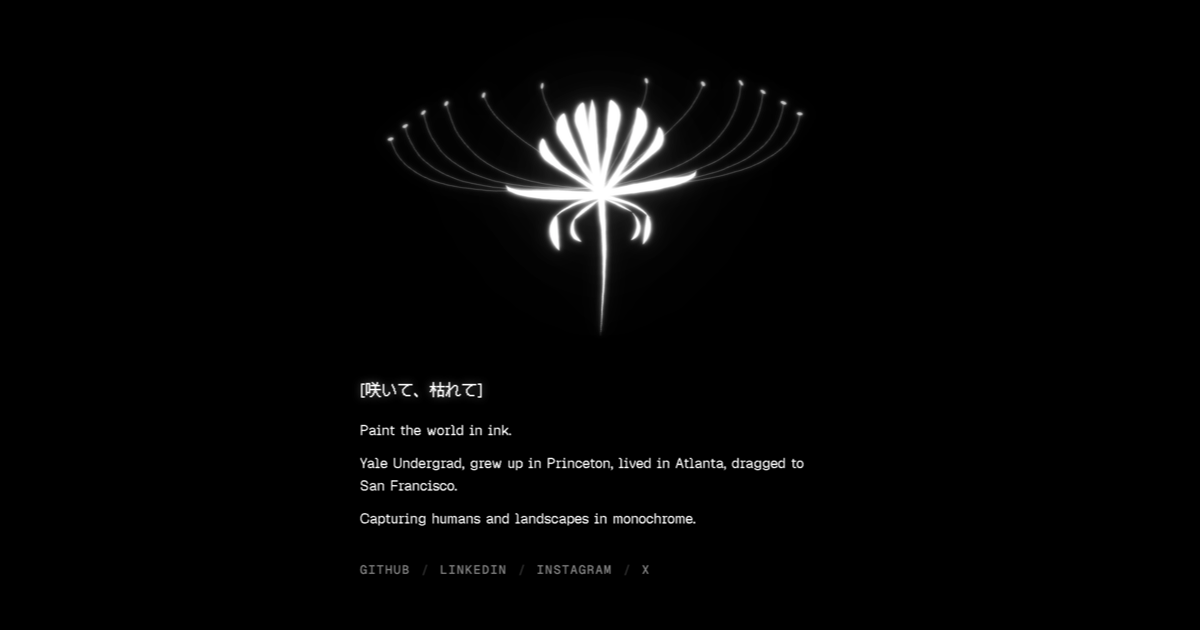
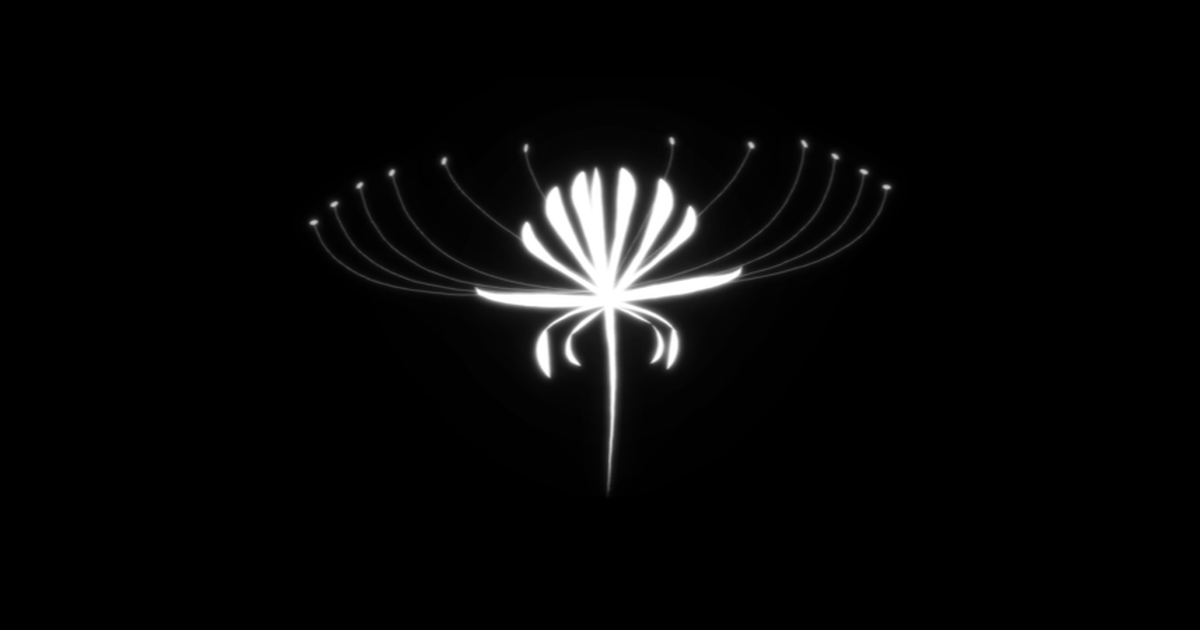
feat: simplify og image to flower on black background (#125)

diff --git a/index.html b/index.html
@@ -50,13 +50,13 @@
     <meta property="og:url" content="https://jasonwu.ink/" />
     <meta
       property="og:image"
-      content="https://jasonwu.ink/images/og-image.png"
+      content="https://jasonwu.ink/images/og-image.png?v=2"
     />
     <meta property="og:image:width" content="1200" />
     <meta property="og:image:height" content="630" />
     <meta
       property="og:image:alt"
-      content="Jason Cui Wu — Paint the world in ink."
+      content="A white spider lily on a black background."
     />
 
     <meta name="twitter:card" content="summary_large_image" />
@@ -64,11 +64,11 @@
     <meta name="twitter:description" content="Paint the world in ink." />
     <meta
       name="twitter:image"
-      content="https://jasonwu.ink/images/og-image.png"
+      content="https://jasonwu.ink/images/og-image.png?v=2"
     />
     <meta
       name="twitter:image:alt"
-      content="Jason Cui Wu — Paint the world in ink."
+      content="A white spider lily on a black background."
     />
   </head>
   <body>
